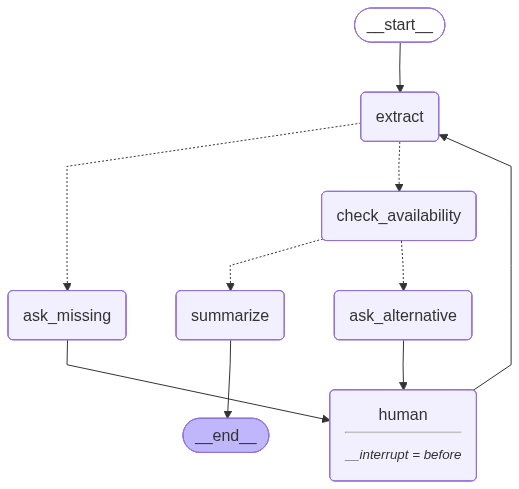
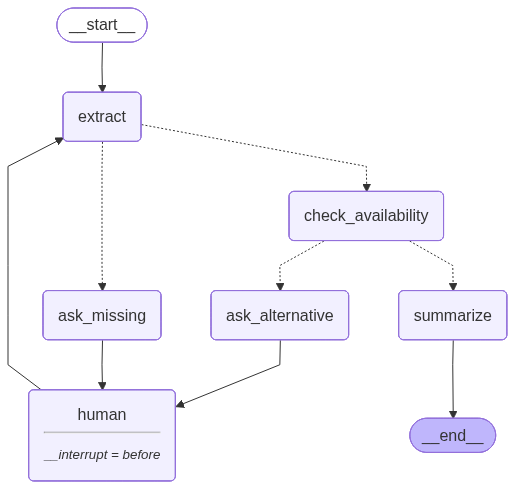
Cleaned up README and added graphs for multi agent solution

diff --git a/gen_graph.py b/gen_graph.py
@@ -5,7 +5,8 @@ from dotenv import load_dotenv
 
 from app.schemas import ChatRequest, ChatResponse, AgentState
 from app.calendar_mock import MockCalendar
-from app.agent import build_agent
+from app.naive_agent import create_human_in_loop_graph, create_revivable_graph
+from app.multi_agent import build_multi_agent
 
 from langchain_core.runnables.graph import MermaidDrawMethod
 from langchain_core.runnables.graph_mermaid import draw_mermaid_png
@@ -15,14 +16,20 @@ load_dotenv()
 
 app = FastAPI(title="Meeting Agent")
 
-calendar = MockCalendar()
+def create_image(agent_graph, filename):
+    graph_object = agent_graph.get_graph()
+    mermaid_syntax = graph_object.draw_mermaid()
+    draw_mermaid_png(mermaid_syntax=mermaid_syntax, output_file_path=filename)
 
-memory = MemorySaver()
-config = {"configurable": {"thread_id": "1"}}
 
-agent_graph = build_agent(calendar, memory, config)
+hil_graph = create_human_in_loop_graph()
+create_image(hil_graph, "workflow_graph_human.png")
 
-graph_object = agent_graph.get_graph()
-mermaid_syntax = graph_object.draw_mermaid()
+naive_graph = create_revivable_graph()
+create_image(naive_graph, "workflow_graph_iterative.png")
 
-draw_mermaid_png(mermaid_syntax=mermaid_syntax, output_file_path="workflow_graph_human.png")
+input_graph, booking_graph, planner_graph = build_multi_agent()
+create_image(input_graph, "multiagent_workflow_graph_input.png")
+create_image(booking_graph, "multiagent_workflow_graph_booking.png")
+create_image(planner_graph, "multiagent_workflow_graph_planner.png")
+

diff --git a/README.md b/README.md
@@ -132,7 +132,14 @@ With Human in loop workflow where graph is resumed in subsequent turns:
 
 With naive implementation where graph is rerun from the beginning in each turn:
 
-![alt text](workflow_graph.png "Workflow")
+![alt text](workflow_graph_iterative.png "Workflow restarted in each iteration")
+
+
+With multiagent solution, there is a input agent, booking agent, and a planner/orchestration agent:
+
+![alt text](multiagent_workflow_graph_input.png "Workflow for input gathering agent")
+![alt text](multiagent_workflow_graph_booking.png "Workflow for booking agent")
+![alt text](multiagent_workflow_graph_planner.png "Workflow for planner agent")
 
 
 ## Building
